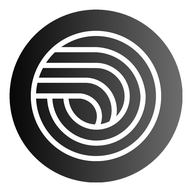
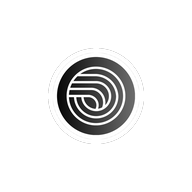
Resolve merge conflict

diff --git a/scripts/make_circle_icon.py b/scripts/make_circle_icon.py
@@ -70,9 +70,36 @@ def make_circle_icon(input_path, output_paths, border_ratio=0.05):
             filename = os.path.basename(path)
             
             if "192x192" in filename:
-                save_img = final_image.resize((192, 192), Image.Resampling.LANCZOS)
+                target_size = 192
+                padding_factor = 0.5 # Logo will be 50% of the canvas size
+                
+                # Create base (transparent, though for splash screen usually matches theme)
+                # Since we use black theme, transparent is fine as it overlays on black, or we can force black background if transparency issues arise.
+                # Let's stick to transparent for versatility.
+                new_img = Image.new("RGBA", (target_size, target_size), (0, 0, 0, 0))
+                
+                # Resize the circular icon
+                icon_size = int(target_size * padding_factor)
+                resized_icon = final_image.resize((icon_size, icon_size), Image.Resampling.LANCZOS)
+                
+                # Center paste
+                pos = ((target_size - icon_size) // 2, (target_size - icon_size) // 2)
+                new_img.paste(resized_icon, pos, resized_icon)
+                save_img = new_img
+                
             elif "512x512" in filename:
-                save_img = final_image.resize((512, 512), Image.Resampling.LANCZOS)
+                target_size = 512
+                padding_factor = 0.5 # Logo will be 50% of the canvas size
+                
+                new_img = Image.new("RGBA", (target_size, target_size), (0, 0, 0, 0))
+                
+                icon_size = int(target_size * padding_factor)
+                resized_icon = final_image.resize((icon_size, icon_size), Image.Resampling.LANCZOS)
+                
+                pos = ((target_size - icon_size) // 2, (target_size - icon_size) // 2)
+                new_img.paste(resized_icon, pos, resized_icon)
+                save_img = new_img
+                
             else:
                 # Keep original high res for default icon.png, or maybe limit to 512?
                 # Let's keep it max 512 for main icon to avoid huge files
